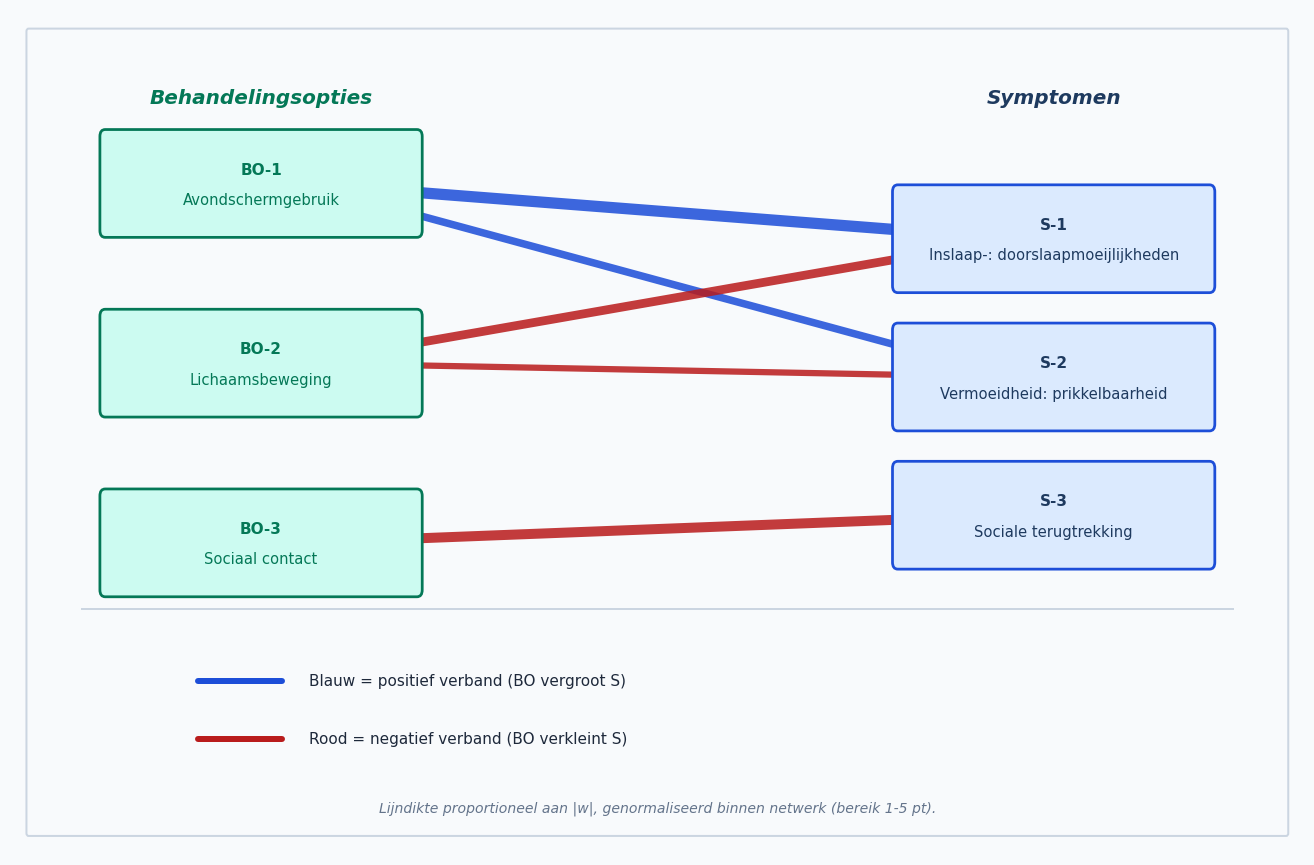
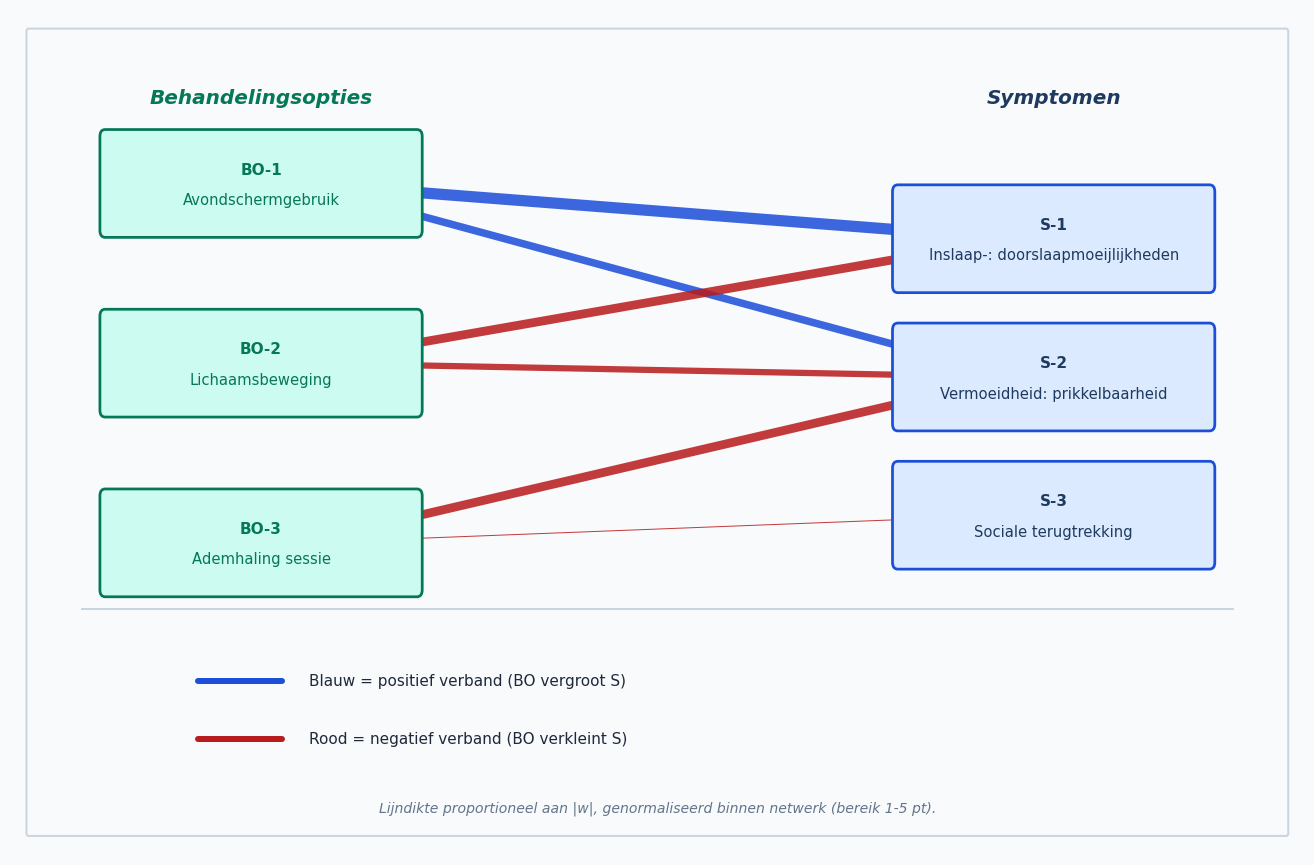
Survey + TikZ: doel-zin fix + BO-3 → Ademhaling sessie
- 'Het doel deze survey is om de klinische kwaliteit te kunnen evalueren'
  → 'Het doel van deze survey is om uiteindelijk de klinische kwaliteit
     te kunnen evalueren' (×20, alle HCPs)
- Deel 3 voorbeeld BO-3: Sociaal contact → Ademhaling sessie (good/frequent
  state, lage prioriteit) in survey HTML (×10) + alle 10 TikZ bronbestanden
- Netwerk: bo3→s2 (3.5pt red, ademhaling vermindert vermoeidheid) +
  bo3→s3 (0.4pt, barely matters); oud bo3→s3 4.0pt verwijderd
- example_d3.png geregenereerd

diff --git a/evaluation/qualtrics/01_HCPs_PRE/separate_HCPs/1_case_per_HCP/HCP_01/main.tex b/evaluation/qualtrics/01_HCPs_PRE/separate_HCPs/1_case_per_HCP/HCP_01/main.tex
@@ -637,8 +637,7 @@ tot en met 5 (laagste prioriteit).
 \begin{voorbeeldbox}{Deel 3: Behandeldoelprioritering}{Hoe leest u het netwerk en rangschikt u de behandelingsopties?}
 \small
 \textbf{Monitoring (voorbeeld):} Schermtijd voor slapengaan: 18/21 avonden actief
-(gem.\ 65 min). Lichaamsbeweging: 0,8 sessies/week. Sociaal contact op eigen initiatief:
-0,9/week.
+(gem.\ 65 min). Lichaamsbeweging: 0,8 sessies/week. Ademhaling sessies: gem.\ 2,4/dag (goed).
 
 \medskip
 \textbf{Tweedelig netwerk voor dit voorbeeld:}
@@ -647,7 +646,7 @@ tot en met 5 (laagste prioriteit).
 \begin{tikzpicture}[node distance=0pt]
   \node[smprnode] (bo1) at (0, 1.3)  {BO-1\\Avondschermgebruik};
   \node[smprnode] (bo2) at (0, 0.0)  {BO-2\\Lichaamsbeweging};
-  \node[smprnode] (bo3) at (0,-1.3)  {BO-3\\Sociaal contact};
+  \node[smprnode] (bo3) at (0,-1.3)  {BO-3\\Ademhaling sessie};
   \node[smcrnode] (s1) at (7.5, 0.9) {S-1\\Inslaap- \& doorslaapmoeijlijkheden};
   \node[smcrnode] (s2) at (7.5,-0.1) {S-2\\Vermoeidheid \& prikkelbaarheid};
   \node[smcrnode] (s3) at (7.5,-1.1) {S-3\\Sociale terugtrekking};
@@ -655,7 +654,8 @@ tot en met 5 (laagste prioriteit).
   \draw[line width=3.0pt, draw=PrimaryBlue!80, opacity=0.90] (bo1.east) -- (s2.west);
   \draw[line width=3.5pt, draw=StrongRed!85, opacity=0.90] (bo2.east) -- (s1.west);
   \draw[line width=2.5pt, draw=StrongRed!85, opacity=0.90] (bo2.east) -- (s2.west);
-  \draw[line width=4.0pt, draw=StrongRed!85, opacity=0.90] (bo3.east) -- (s3.west);
+  \draw[line width=3.5pt, draw=StrongRed!85, opacity=0.90] (bo3.east) -- (s2.west);
+  \draw[line width=0.4pt, draw=StrongRed!85, opacity=0.90] (bo3.east) -- (s3.west);
   \draw[line width=0.3pt, draw=black!25] (-0.2,-1.88) -- (10.1,-1.88);
   \draw[line width=2.0pt, draw=PrimaryBlue!80] (0.1,-2.18) -- (1.0,-2.18);
   \node[font=\fontsize{5.5}{7}\selectfont, anchor=west, text=black!70] at (1.15,-2.18) {\textbf{Blauw} = positief verband (BO \emph{vergroot} S)};
@@ -671,8 +671,8 @@ tot en met 5 (laagste prioriteit).
 monitoring toont 18/21 avonden hoge schermtijd $\rightarrow$ \textbf{prioriteit 1}.
 \item \textbf{BO-2 (Lichaamsbeweging)} -- beschermend effect op S-1 en S-2 (rode verbanden);
 frequentie extreem laag (0,8/week) $\rightarrow$ \textbf{prioriteit 2}.
-\item \textbf{BO-3 (Sociaal contact)} -- sterk negatief verband met S-3; eveneens laag
-(0,9/week) $\rightarrow$ \textbf{prioriteit 3}.
+\item \textbf{BO-3 (Ademhaling sessie)} -- beschermend effect op S-2 (rode lijn);
+frequentie hoog (gem.\ 2,4/dag, goed) $\rightarrow$ \textbf{prioriteit 3} (toestand reeds goed).
 \end{enumerate}
 \end{voorbeeldbox}
 

diff --git a/evaluation/qualtrics/01_HCPs_PRE/separate_HCPs/1_case_per_HCP/HCP_02/main.tex b/evaluation/qualtrics/01_HCPs_PRE/separate_HCPs/1_case_per_HCP/HCP_02/main.tex
@@ -637,8 +637,7 @@ tot en met 5 (laagste prioriteit).
 \begin{voorbeeldbox}{Deel 3: Behandeldoelprioritering}{Hoe leest u het netwerk en rangschikt u de behandelingsopties?}
 \small
 \textbf{Monitoring (voorbeeld):} Schermtijd voor slapengaan: 18/21 avonden actief
-(gem.\ 65 min). Lichaamsbeweging: 0,8 sessies/week. Sociaal contact op eigen initiatief:
-0,9/week.
+(gem.\ 65 min). Lichaamsbeweging: 0,8 sessies/week. Ademhaling sessies: gem.\ 2,4/dag (goed).
 
 \medskip
 \textbf{Tweedelig netwerk voor dit voorbeeld:}
@@ -647,7 +646,7 @@ tot en met 5 (laagste prioriteit).
 \begin{tikzpicture}[node distance=0pt]
   \node[smprnode] (bo1) at (0, 1.3)  {BO-1\\Avondschermgebruik};
   \node[smprnode] (bo2) at (0, 0.0)  {BO-2\\Lichaamsbeweging};
-  \node[smprnode] (bo3) at (0,-1.3)  {BO-3\\Sociaal contact};
+  \node[smprnode] (bo3) at (0,-1.3)  {BO-3\\Ademhaling sessie};
   \node[smcrnode] (s1) at (7.5, 0.9) {S-1\\Inslaap- \& doorslaapmoeijlijkheden};
   \node[smcrnode] (s2) at (7.5,-0.1) {S-2\\Vermoeidheid \& prikkelbaarheid};
   \node[smcrnode] (s3) at (7.5,-1.1) {S-3\\Sociale terugtrekking};
@@ -655,7 +654,8 @@ tot en met 5 (laagste prioriteit).
   \draw[line width=3.0pt, draw=PrimaryBlue!80, opacity=0.90] (bo1.east) -- (s2.west);
   \draw[line width=3.5pt, draw=StrongRed!85, opacity=0.90] (bo2.east) -- (s1.west);
   \draw[line width=2.5pt, draw=StrongRed!85, opacity=0.90] (bo2.east) -- (s2.west);
-  \draw[line width=4.0pt, draw=StrongRed!85, opacity=0.90] (bo3.east) -- (s3.west);
+  \draw[line width=3.5pt, draw=StrongRed!85, opacity=0.90] (bo3.east) -- (s2.west);
+  \draw[line width=0.4pt, draw=StrongRed!85, opacity=0.90] (bo3.east) -- (s3.west);
   \draw[line width=0.3pt, draw=black!25] (-0.2,-1.88) -- (10.1,-1.88);
   \draw[line width=2.0pt, draw=PrimaryBlue!80] (0.1,-2.18) -- (1.0,-2.18);
   \node[font=\fontsize{5.5}{7}\selectfont, anchor=west, text=black!70] at (1.15,-2.18) {\textbf{Blauw} = positief verband (BO \emph{vergroot} S)};
@@ -671,8 +671,8 @@ tot en met 5 (laagste prioriteit).
 monitoring toont 18/21 avonden hoge schermtijd $\rightarrow$ \textbf{prioriteit 1}.
 \item \textbf{BO-2 (Lichaamsbeweging)} -- beschermend effect op S-1 en S-2 (rode verbanden);
 frequentie extreem laag (0,8/week) $\rightarrow$ \textbf{prioriteit 2}.
-\item \textbf{BO-3 (Sociaal contact)} -- sterk negatief verband met S-3; eveneens laag
-(0,9/week) $\rightarrow$ \textbf{prioriteit 3}.
+\item \textbf{BO-3 (Ademhaling sessie)} -- beschermend effect op S-2 (rode lijn);
+frequentie hoog (gem.\ 2,4/dag, goed) $\rightarrow$ \textbf{prioriteit 3} (toestand reeds goed).
 \end{enumerate}
 \end{voorbeeldbox}
 

diff --git a/evaluation/qualtrics/01_HCPs_PRE/separate_HCPs/1_case_per_HCP/HCP_05/main.tex b/evaluation/qualtrics/01_HCPs_PRE/separate_HCPs/1_case_per_HCP/HCP_05/main.tex
@@ -637,8 +637,7 @@ tot en met 5 (laagste prioriteit).
 \begin{voorbeeldbox}{Deel 3: Behandeldoelprioritering}{Hoe leest u het netwerk en rangschikt u de behandelingsopties?}
 \small
 \textbf{Monitoring (voorbeeld):} Schermtijd voor slapengaan: 18/21 avonden actief
-(gem.\ 65 min). Lichaamsbeweging: 0,8 sessies/week. Sociaal contact op eigen initiatief:
-0,9/week.
+(gem.\ 65 min). Lichaamsbeweging: 0,8 sessies/week. Ademhaling sessies: gem.\ 2,4/dag (goed).
 
 \medskip
 \textbf{Tweedelig netwerk voor dit voorbeeld:}
@@ -647,7 +646,7 @@ tot en met 5 (laagste prioriteit).
 \begin{tikzpicture}[node distance=0pt]
   \node[smprnode] (bo1) at (0, 1.3)  {BO-1\\Avondschermgebruik};
   \node[smprnode] (bo2) at (0, 0.0)  {BO-2\\Lichaamsbeweging};
-  \node[smprnode] (bo3) at (0,-1.3)  {BO-3\\Sociaal contact};
+  \node[smprnode] (bo3) at (0,-1.3)  {BO-3\\Ademhaling sessie};
   \node[smcrnode] (s1) at (7.5, 0.9) {S-1\\Inslaap- \& doorslaapmoeilijkheden};
   \node[smcrnode] (s2) at (7.5,-0.1) {S-2\\Vermoeidheid \& prikkelbaarheid};
   \node[smcrnode] (s3) at (7.5,-1.1) {S-3\\Sociale terugtrekking};
@@ -655,7 +654,8 @@ tot en met 5 (laagste prioriteit).
   \draw[line width=3.0pt, draw=PrimaryBlue!80, opacity=0.90] (bo1.east) -- (s2.west);
   \draw[line width=3.5pt, draw=StrongRed!85, opacity=0.90] (bo2.east) -- (s1.west);
   \draw[line width=2.5pt, draw=StrongRed!85, opacity=0.90] (bo2.east) -- (s2.west);
-  \draw[line width=4.0pt, draw=StrongRed!85, opacity=0.90] (bo3.east) -- (s3.west);
+  \draw[line width=3.5pt, draw=StrongRed!85, opacity=0.90] (bo3.east) -- (s2.west);
+  \draw[line width=0.4pt, draw=StrongRed!85, opacity=0.90] (bo3.east) -- (s3.west);
   \draw[line width=0.3pt, draw=black!25] (-0.2,-1.88) -- (10.1,-1.88);
   \draw[line width=2.0pt, draw=PrimaryBlue!80] (0.1,-2.18) -- (1.0,-2.18);
   \node[font=\fontsize{5.5}{7}\selectfont, anchor=west, text=black!70] at (1.15,-2.18) {\textbf{Blauw} = positief verband (BO \emph{vergroot} S)};
@@ -671,8 +671,8 @@ tot en met 5 (laagste prioriteit).
 monitoring toont 18/21 avonden hoge schermtijd $\rightarrow$ \textbf{prioriteit 1}.
 \item \textbf{BO-2 (Lichaamsbeweging)} -- beschermend effect op S-1 en S-2 (rode verbanden);
 frequentie extreem laag (0,8/week) $\rightarrow$ \textbf{prioriteit 2}.
-\item \textbf{BO-3 (Sociaal contact)} -- sterk negatief verband met S-3; eveneens laag
-(0,9/week) $\rightarrow$ \textbf{prioriteit 3}.
+\item \textbf{BO-3 (Ademhaling sessie)} -- beschermend effect op S-2 (rode lijn);
+frequentie hoog (gem.\ 2,4/dag, goed) $\rightarrow$ \textbf{prioriteit 3} (toestand reeds goed).
 \end{enumerate}
 \end{voorbeeldbox}
 

diff --git a/evaluation/qualtrics/01_HCPs_PRE/separate_HCPs/1_case_per_HCP/HCP_06/main.tex b/evaluation/qualtrics/01_HCPs_PRE/separate_HCPs/1_case_per_HCP/HCP_06/main.tex
@@ -637,8 +637,7 @@ tot en met 5 (laagste prioriteit).
 \begin{voorbeeldbox}{Deel 3: Behandeldoelprioritering}{Hoe leest u het netwerk en rangschikt u de behandelingsopties?}
 \small
 \textbf{Monitoring (voorbeeld):} Schermtijd voor slapengaan: 18/21 avonden actief
-(gem.\ 65 min). Lichaamsbeweging: 0,8 sessies/week. Sociaal contact op eigen initiatief:
-0,9/week.
+(gem.\ 65 min). Lichaamsbeweging: 0,8 sessies/week. Ademhaling sessies: gem.\ 2,4/dag (goed).
 
 \medskip
 \textbf{Tweedelig netwerk voor dit voorbeeld:}
@@ -647,7 +646,7 @@ tot en met 5 (laagste prioriteit).
 \begin{tikzpicture}[node distance=0pt]
   \node[smprnode] (bo1) at (0, 1.3)  {BO-1\\Avondschermgebruik};
   \node[smprnode] (bo2) at (0, 0.0)  {BO-2\\Lichaamsbeweging};
-  \node[smprnode] (bo3) at (0,-1.3)  {BO-3\\Sociaal contact};
+  \node[smprnode] (bo3) at (0,-1.3)  {BO-3\\Ademhaling sessie};
   \node[smcrnode] (s1) at (7.5, 0.9) {S-1\\Inslaap- \& doorslaapmoeilijkheden};
   \node[smcrnode] (s2) at (7.5,-0.1) {S-2\\Vermoeidheid \& prikkelbaarheid};
   \node[smcrnode] (s3) at (7.5,-1.1) {S-3\\Sociale terugtrekking};
@@ -655,7 +654,8 @@ tot en met 5 (laagste prioriteit).
   \draw[line width=3.0pt, draw=PrimaryBlue!80, opacity=0.90] (bo1.east) -- (s2.west);
   \draw[line width=3.5pt, draw=StrongRed!85, opacity=0.90] (bo2.east) -- (s1.west);
   \draw[line width=2.5pt, draw=StrongRed!85, opacity=0.90] (bo2.east) -- (s2.west);
-  \draw[line width=4.0pt, draw=StrongRed!85, opacity=0.90] (bo3.east) -- (s3.west);
+  \draw[line width=3.5pt, draw=StrongRed!85, opacity=0.90] (bo3.east) -- (s2.west);
+  \draw[line width=0.4pt, draw=StrongRed!85, opacity=0.90] (bo3.east) -- (s3.west);
   \draw[line width=0.3pt, draw=black!25] (-0.2,-1.88) -- (10.1,-1.88);
   \draw[line width=2.0pt, draw=PrimaryBlue!80] (0.1,-2.18) -- (1.0,-2.18);
   \node[font=\fontsize{5.5}{7}\selectfont, anchor=west, text=black!70] at (1.15,-2.18) {\textbf{Blauw} = positief verband (BO \emph{vergroot} S)};
@@ -671,8 +671,8 @@ tot en met 5 (laagste prioriteit).
 monitoring toont 18/21 avonden hoge schermtijd $\rightarrow$ \textbf{prioriteit 1}.
 \item \textbf{BO-2 (Lichaamsbeweging)} -- beschermend effect op S-1 en S-2 (rode verbanden);
 frequentie extreem laag (0,8/week) $\rightarrow$ \textbf{prioriteit 2}.
-\item \textbf{BO-3 (Sociaal contact)} -- sterk negatief verband met S-3; eveneens laag
-(0,9/week) $\rightarrow$ \textbf{prioriteit 3}.
+\item \textbf{BO-3 (Ademhaling sessie)} -- beschermend effect op S-2 (rode lijn);
+frequentie hoog (gem.\ 2,4/dag, goed) $\rightarrow$ \textbf{prioriteit 3} (toestand reeds goed).
 \end{enumerate}
 \end{voorbeeldbox}
 

diff --git a/evaluation/qualtrics/01_HCPs_PRE/separate_HCPs/1_case_per_HCP/HCP_07/main.tex b/evaluation/qualtrics/01_HCPs_PRE/separate_HCPs/1_case_per_HCP/HCP_07/main.tex
@@ -637,8 +637,7 @@ tot en met 5 (laagste prioriteit).
 \begin{voorbeeldbox}{Deel 3: Behandeldoelprioritering}{Hoe leest u het netwerk en rangschikt u de behandelingsopties?}
 \small
 \textbf{Monitoring (voorbeeld):} Schermtijd voor slapengaan: 18/21 avonden actief
-(gem.\ 65 min). Lichaamsbeweging: 0,8 sessies/week. Sociaal contact op eigen initiatief:
-0,9/week.
+(gem.\ 65 min). Lichaamsbeweging: 0,8 sessies/week. Ademhaling sessies: gem.\ 2,4/dag (goed).
 
 \medskip
 \textbf{Tweedelig netwerk voor dit voorbeeld:}
@@ -647,7 +646,7 @@ tot en met 5 (laagste prioriteit).
 \begin{tikzpicture}[node distance=0pt]
   \node[smprnode] (bo1) at (0, 1.3)  {BO-1\\Avondschermgebruik};
   \node[smprnode] (bo2) at (0, 0.0)  {BO-2\\Lichaamsbeweging};
-  \node[smprnode] (bo3) at (0,-1.3)  {BO-3\\Sociaal contact};
+  \node[smprnode] (bo3) at (0,-1.3)  {BO-3\\Ademhaling sessie};
   \node[smcrnode] (s1) at (7.5, 0.9) {S-1\\Inslaap- \& doorslaapmoeilijkheden};
   \node[smcrnode] (s2) at (7.5,-0.1) {S-2\\Vermoeidheid \& prikkelbaarheid};
   \node[smcrnode] (s3) at (7.5,-1.1) {S-3\\Sociale terugtrekking};
@@ -655,7 +654,8 @@ tot en met 5 (laagste prioriteit).
   \draw[line width=3.0pt, draw=PrimaryBlue!80, opacity=0.90] (bo1.east) -- (s2.west);
   \draw[line width=3.5pt, draw=StrongRed!85, opacity=0.90] (bo2.east) -- (s1.west);
   \draw[line width=2.5pt, draw=StrongRed!85, opacity=0.90] (bo2.east) -- (s2.west);
-  \draw[line width=4.0pt, draw=StrongRed!85, opacity=0.90] (bo3.east) -- (s3.west);
+  \draw[line width=3.5pt, draw=StrongRed!85, opacity=0.90] (bo3.east) -- (s2.west);
+  \draw[line width=0.4pt, draw=StrongRed!85, opacity=0.90] (bo3.east) -- (s3.west);
   \draw[line width=0.3pt, draw=black!25] (-0.2,-1.88) -- (10.1,-1.88);
   \draw[line width=2.0pt, draw=PrimaryBlue!80] (0.1,-2.18) -- (1.0,-2.18);
   \node[font=\fontsize{5.5}{7}\selectfont, anchor=west, text=black!70] at (1.15,-2.18) {\textbf{Blauw} = positief verband (BO \emph{vergroot} S)};
@@ -671,8 +671,8 @@ tot en met 5 (laagste prioriteit).
 monitoring toont 18/21 avonden hoge schermtijd $\rightarrow$ \textbf{prioriteit 1}.
 \item \textbf{BO-2 (Lichaamsbeweging)} -- beschermend effect op S-1 en S-2 (rode verbanden);
 frequentie extreem laag (0,8/week) $\rightarrow$ \textbf{prioriteit 2}.
-\item \textbf{BO-3 (Sociaal contact)} -- sterk negatief verband met S-3; eveneens laag
-(0,9/week) $\rightarrow$ \textbf{prioriteit 3}.
+\item \textbf{BO-3 (Ademhaling sessie)} -- beschermend effect op S-2 (rode lijn);
+frequentie hoog (gem.\ 2,4/dag, goed) $\rightarrow$ \textbf{prioriteit 3} (toestand reeds goed).
 \end{enumerate}
 \end{voorbeeldbox}
 

diff --git a/evaluation/qualtrics/01_HCPs_PRE/separate_HCPs/1_case_per_HCP/HCP_08/main.tex b/evaluation/qualtrics/01_HCPs_PRE/separate_HCPs/1_case_per_HCP/HCP_08/main.tex
@@ -637,8 +637,7 @@ tot en met 5 (laagste prioriteit).
 \begin{voorbeeldbox}{Deel 3: Behandeldoelprioritering}{Hoe leest u het netwerk en rangschikt u de behandelingsopties?}
 \small
 \textbf{Monitoring (voorbeeld):} Schermtijd voor slapengaan: 18/21 avonden actief
-(gem.\ 65 min). Lichaamsbeweging: 0,8 sessies/week. Sociaal contact op eigen initiatief:
-0,9/week.
+(gem.\ 65 min). Lichaamsbeweging: 0,8 sessies/week. Ademhaling sessies: gem.\ 2,4/dag (goed).
 
 \medskip
 \textbf{Tweedelig netwerk voor dit voorbeeld:}
@@ -647,7 +646,7 @@ tot en met 5 (laagste prioriteit).
 \begin{tikzpicture}[node distance=0pt]
   \node[smprnode] (bo1) at (0, 1.3)  {BO-1\\Avondschermgebruik};
   \node[smprnode] (bo2) at (0, 0.0)  {BO-2\\Lichaamsbeweging};
-  \node[smprnode] (bo3) at (0,-1.3)  {BO-3\\Sociaal contact};
+  \node[smprnode] (bo3) at (0,-1.3)  {BO-3\\Ademhaling sessie};
   \node[smcrnode] (s1) at (7.5, 0.9) {S-1\\Inslaap- \& doorslaapmoeilijkheden};
   \node[smcrnode] (s2) at (7.5,-0.1) {S-2\\Vermoeidheid \& prikkelbaarheid};
   \node[smcrnode] (s3) at (7.5,-1.1) {S-3\\Sociale terugtrekking};
@@ -655,7 +654,8 @@ tot en met 5 (laagste prioriteit).
   \draw[line width=3.0pt, draw=PrimaryBlue!80, opacity=0.90] (bo1.east) -- (s2.west);
   \draw[line width=3.5pt, draw=StrongRed!85, opacity=0.90] (bo2.east) -- (s1.west);
   \draw[line width=2.5pt, draw=StrongRed!85, opacity=0.90] (bo2.east) -- (s2.west);
-  \draw[line width=4.0pt, draw=StrongRed!85, opacity=0.90] (bo3.east) -- (s3.west);
+  \draw[line width=3.5pt, draw=StrongRed!85, opacity=0.90] (bo3.east) -- (s2.west);
+  \draw[line width=0.4pt, draw=StrongRed!85, opacity=0.90] (bo3.east) -- (s3.west);
   \draw[line width=0.3pt, draw=black!25] (-0.2,-1.88) -- (10.1,-1.88);
   \draw[line width=2.0pt, draw=PrimaryBlue!80] (0.1,-2.18) -- (1.0,-2.18);
   \node[font=\fontsize{5.5}{7}\selectfont, anchor=west, text=black!70] at (1.15,-2.18) {\textbf{Blauw} = positief verband (BO \emph{vergroot} S)};
@@ -671,8 +671,8 @@ tot en met 5 (laagste prioriteit).
 monitoring toont 18/21 avonden hoge schermtijd $\rightarrow$ \textbf{prioriteit 1}.
 \item \textbf{BO-2 (Lichaamsbeweging)} -- beschermend effect op S-1 en S-2 (rode verbanden);
 frequentie extreem laag (0,8/week) $\rightarrow$ \textbf{prioriteit 2}.
-\item \textbf{BO-3 (Sociaal contact)} -- sterk negatief verband met S-3; eveneens laag
-(0,9/week) $\rightarrow$ \textbf{prioriteit 3}.
+\item \textbf{BO-3 (Ademhaling sessie)} -- beschermend effect op S-2 (rode lijn);
+frequentie hoog (gem.\ 2,4/dag, goed) $\rightarrow$ \textbf{prioriteit 3} (toestand reeds goed).
 \end{enumerate}
 \end{voorbeeldbox}
 

diff --git a/evaluation/qualtrics/01_HCPs_PRE/separate_HCPs/1_case_per_HCP/HCP_09/main.tex b/evaluation/qualtrics/01_HCPs_PRE/separate_HCPs/1_case_per_HCP/HCP_09/main.tex
@@ -637,8 +637,7 @@ tot en met 5 (laagste prioriteit).
 \begin{voorbeeldbox}{Deel 3: Behandeldoelprioritering}{Hoe leest u het netwerk en rangschikt u de behandelingsopties?}
 \small
 \textbf{Monitoring (voorbeeld):} Schermtijd voor slapengaan: 18/21 avonden actief
-(gem.\ 65 min). Lichaamsbeweging: 0,8 sessies/week. Sociaal contact op eigen initiatief:
-0,9/week.
+(gem.\ 65 min). Lichaamsbeweging: 0,8 sessies/week. Ademhaling sessies: gem.\ 2,4/dag (goed).
 
 \medskip
 \textbf{Tweedelig netwerk voor dit voorbeeld:}
@@ -647,7 +646,7 @@ tot en met 5 (laagste prioriteit).
 \begin{tikzpicture}[node distance=0pt]
   \node[smprnode] (bo1) at (0, 1.3)  {BO-1\\Avondschermgebruik};
   \node[smprnode] (bo2) at (0, 0.0)  {BO-2\\Lichaamsbeweging};
-  \node[smprnode] (bo3) at (0,-1.3)  {BO-3\\Sociaal contact};
+  \node[smprnode] (bo3) at (0,-1.3)  {BO-3\\Ademhaling sessie};
   \node[smcrnode] (s1) at (7.5, 0.9) {S-1\\Inslaap- \& doorslaapmoeilijkheden};
   \node[smcrnode] (s2) at (7.5,-0.1) {S-2\\Vermoeidheid \& prikkelbaarheid};
   \node[smcrnode] (s3) at (7.5,-1.1) {S-3\\Sociale terugtrekking};
@@ -655,7 +654,8 @@ tot en met 5 (laagste prioriteit).
   \draw[line width=3.0pt, draw=PrimaryBlue!80, opacity=0.90] (bo1.east) -- (s2.west);
   \draw[line width=3.5pt, draw=StrongRed!85, opacity=0.90] (bo2.east) -- (s1.west);
   \draw[line width=2.5pt, draw=StrongRed!85, opacity=0.90] (bo2.east) -- (s2.west);
-  \draw[line width=4.0pt, draw=StrongRed!85, opacity=0.90] (bo3.east) -- (s3.west);
+  \draw[line width=3.5pt, draw=StrongRed!85, opacity=0.90] (bo3.east) -- (s2.west);
+  \draw[line width=0.4pt, draw=StrongRed!85, opacity=0.90] (bo3.east) -- (s3.west);
   \draw[line width=0.3pt, draw=black!25] (-0.2,-1.88) -- (10.1,-1.88);
   \draw[line width=2.0pt, draw=PrimaryBlue!80] (0.1,-2.18) -- (1.0,-2.18);
   \node[font=\fontsize{5.5}{7}\selectfont, anchor=west, text=black!70] at (1.15,-2.18) {\textbf{Blauw} = positief verband (BO \emph{vergroot} S)};
@@ -671,8 +671,8 @@ tot en met 5 (laagste prioriteit).
 monitoring toont 18/21 avonden hoge schermtijd $\rightarrow$ \textbf{prioriteit 1}.
 \item \textbf{BO-2 (Lichaamsbeweging)} -- beschermend effect op S-1 en S-2 (rode verbanden);
 frequentie extreem laag (0,8/week) $\rightarrow$ \textbf{prioriteit 2}.
-\item \textbf{BO-3 (Sociaal contact)} -- sterk negatief verband met S-3; eveneens laag
-(0,9/week) $\rightarrow$ \textbf{prioriteit 3}.
+\item \textbf{BO-3 (Ademhaling sessie)} -- beschermend effect op S-2 (rode lijn);
+frequentie hoog (gem.\ 2,4/dag, goed) $\rightarrow$ \textbf{prioriteit 3} (toestand reeds goed).
 \end{enumerate}
 \end{voorbeeldbox}
 

diff --git a/evaluation/qualtrics/01_HCPs_PRE/separate_HCPs/1_case_per_HCP/HCP_10/main.tex b/evaluation/qualtrics/01_HCPs_PRE/separate_HCPs/1_case_per_HCP/HCP_10/main.tex
@@ -637,8 +637,7 @@ tot en met 5 (laagste prioriteit).
 \begin{voorbeeldbox}{Deel 3: Behandeldoelprioritering}{Hoe leest u het netwerk en rangschikt u de behandelingsopties?}
 \small
 \textbf{Monitoring (voorbeeld):} Schermtijd voor slapengaan: 18/21 avonden actief
-(gem.\ 65 min). Lichaamsbeweging: 0,8 sessies/week. Sociaal contact op eigen initiatief:
-0,9/week.
+(gem.\ 65 min). Lichaamsbeweging: 0,8 sessies/week. Ademhaling sessies: gem.\ 2,4/dag (goed).
 
 \medskip
 \textbf{Tweedelig netwerk voor dit voorbeeld:}
@@ -647,7 +646,7 @@ tot en met 5 (laagste prioriteit).
 \begin{tikzpicture}[node distance=0pt]
   \node[smprnode] (bo1) at (0, 1.3)  {BO-1\\Avondschermgebruik};
   \node[smprnode] (bo2) at (0, 0.0)  {BO-2\\Lichaamsbeweging};
-  \node[smprnode] (bo3) at (0,-1.3)  {BO-3\\Sociaal contact};
+  \node[smprnode] (bo3) at (0,-1.3)  {BO-3\\Ademhaling sessie};
   \node[smcrnode] (s1) at (7.5, 0.9) {S-1\\Inslaap- \& doorslaapmoeilijkheden};
   \node[smcrnode] (s2) at (7.5,-0.1) {S-2\\Vermoeidheid \& prikkelbaarheid};
   \node[smcrnode] (s3) at (7.5,-1.1) {S-3\\Sociale terugtrekking};
@@ -655,7 +654,8 @@ tot en met 5 (laagste prioriteit).
   \draw[line width=3.0pt, draw=PrimaryBlue!80, opacity=0.90] (bo1.east) -- (s2.west);
   \draw[line width=3.5pt, draw=StrongRed!85, opacity=0.90] (bo2.east) -- (s1.west);
   \draw[line width=2.5pt, draw=StrongRed!85, opacity=0.90] (bo2.east) -- (s2.west);
-  \draw[line width=4.0pt, draw=StrongRed!85, opacity=0.90] (bo3.east) -- (s3.west);
+  \draw[line width=3.5pt, draw=StrongRed!85, opacity=0.90] (bo3.east) -- (s2.west);
+  \draw[line width=0.4pt, draw=StrongRed!85, opacity=0.90] (bo3.east) -- (s3.west);
   \draw[line width=0.3pt, draw=black!25] (-0.2,-1.88) -- (10.1,-1.88);
   \draw[line width=2.0pt, draw=PrimaryBlue!80] (0.1,-2.18) -- (1.0,-2.18);
   \node[font=\fontsize{5.5}{7}\selectfont, anchor=west, text=black!70] at (1.15,-2.18) {\textbf{Blauw} = positief verband (BO \emph{vergroot} S)};
@@ -671,8 +671,8 @@ tot en met 5 (laagste prioriteit).
 monitoring toont 18/21 avonden hoge schermtijd $\rightarrow$ \textbf{prioriteit 1}.
 \item \textbf{BO-2 (Lichaamsbeweging)} -- beschermend effect op S-1 en S-2 (rode verbanden);
 frequentie extreem laag (0,8/week) $\rightarrow$ \textbf{prioriteit 2}.
-\item \textbf{BO-3 (Sociaal contact)} -- sterk negatief verband met S-3; eveneens laag
-(0,9/week) $\rightarrow$ \textbf{prioriteit 3}.
+\item \textbf{BO-3 (Ademhaling sessie)} -- beschermend effect op S-2 (rode lijn);
+frequentie hoog (gem.\ 2,4/dag, goed) $\rightarrow$ \textbf{prioriteit 3} (toestand reeds goed).
 \end{enumerate}
 \end{voorbeeldbox}
 

diff --git a/evaluation/qualtrics/01_HCPs_PRE/separate_HCPs/1_case_per_HCP/HCP_03/main.tex b/evaluation/qualtrics/01_HCPs_PRE/separate_HCPs/1_case_per_HCP/HCP_03/main.tex
@@ -633,8 +633,7 @@ sterkste vermindering van de symptomen oplevert. Prioriteer op basis van monitor
 \begin{voorbeeldbox}{Deel 3: Behandeldoelprioritering}{Hoe leest u het netwerk en rangschikt u de behandelingsopties?}
 \small
 \textbf{Monitoring (voorbeeld):} Schermtijd voor slapengaan: 18/21 avonden actief
-(gem.\ 65 min). Lichaamsbeweging: 0,8 sessies/week. Sociaal contact op eigen initiatief:
-0,9/week.
+(gem.\ 65 min). Lichaamsbeweging: 0,8 sessies/week. Ademhaling sessies: gem.\ 2,4/dag (goed).
 
 \medskip
 \textbf{Tweedelig netwerk voor dit voorbeeld:}
@@ -643,7 +642,7 @@ sterkste vermindering van de symptomen oplevert. Prioriteer op basis van monitor
 \begin{tikzpicture}[node distance=0pt]
   \node[smprnode] (bo1) at (0, 1.3)  {BO-1\\Avondschermgebruik};
   \node[smprnode] (bo2) at (0, 0.0)  {BO-2\\Lichaamsbeweging};
-  \node[smprnode] (bo3) at (0,-1.3)  {BO-3\\Sociaal contact};
+  \node[smprnode] (bo3) at (0,-1.3)  {BO-3\\Ademhaling sessie};
   \node[smcrnode] (s1) at (7.5, 0.9) {S-1\\Inslaap- \& doorslaapmoeilijkheden};
   \node[smcrnode] (s2) at (7.5,-0.1) {S-2\\Vermoeidheid \& prikkelbaarheid};
   \node[smcrnode] (s3) at (7.5,-1.1) {S-3\\Sociale terugtrekking};
@@ -651,7 +650,8 @@ sterkste vermindering van de symptomen oplevert. Prioriteer op basis van monitor
   \draw[line width=3.0pt, draw=PrimaryBlue!80, opacity=0.90] (bo1.east) -- (s2.west);
   \draw[line width=3.5pt, draw=StrongRed!85, opacity=0.90] (bo2.east) -- (s1.west);
   \draw[line width=2.5pt, draw=StrongRed!85, opacity=0.90] (bo2.east) -- (s2.west);
-  \draw[line width=4.0pt, draw=StrongRed!85, opacity=0.90] (bo3.east) -- (s3.west);
+  \draw[line width=3.5pt, draw=StrongRed!85, opacity=0.90] (bo3.east) -- (s2.west);
+  \draw[line width=0.4pt, draw=StrongRed!85, opacity=0.90] (bo3.east) -- (s3.west);
   \draw[line width=0.3pt, draw=black!25] (-0.2,-1.88) -- (10.1,-1.88);
   \draw[line width=2.0pt, draw=PrimaryBlue!80] (0.1,-2.18) -- (1.0,-2.18);
   \node[font=\fontsize{5.5}{7}\selectfont, anchor=west, text=black!70] at (1.15,-2.18) {\textbf{Blauw} = positief verband (BO \emph{vergroot} S)};
@@ -665,7 +665,7 @@ sterkste vermindering van de symptomen oplevert. Prioriteer op basis van monitor
 \begin{enumerate}[topsep=2pt,itemsep=1pt,label=\arabic*.]
 \item \textbf{BO-1 (Avondschermgebruik)} -- raakt S-1 en S-2; monitoring toont 18/21 avonden hoog gebruik $\rightarrow$ \textbf{prioriteit 1}.
 \item \textbf{BO-2 (Lichaamsbeweging)} -- beschermend voor S-1 en S-2; frequentie extreem laag $\rightarrow$ \textbf{prioriteit 2}.
-\item \textbf{BO-3 (Sociaal contact)} -- sterk negatief verband met S-3; laag (0,9/week) $\rightarrow$ \textbf{prioriteit 3}.
+\item \textbf{BO-3 (Ademhaling sessie)} -- beschermend effect op S-2 (rode lijn); frequentie hoog (gem.\ 2,4/dag, goed) $\rightarrow$ \textbf{prioriteit 3} (toestand reeds goed).
 \end{enumerate}
 \end{voorbeeldbox}
 

diff --git a/evaluation/qualtrics/01_HCPs_PRE/separate_HCPs/1_case_per_HCP/HCP_04/main.tex b/evaluation/qualtrics/01_HCPs_PRE/separate_HCPs/1_case_per_HCP/HCP_04/main.tex
@@ -633,8 +633,7 @@ sterkste vermindering van de symptomen oplevert. Prioriteer op basis van monitor
 \begin{voorbeeldbox}{Deel 3: Behandeldoelprioritering}{Hoe leest u het netwerk en rangschikt u de behandelingsopties?}
 \small
 \textbf{Monitoring (voorbeeld):} Schermtijd voor slapengaan: 18/21 avonden actief
-(gem.\ 65 min). Lichaamsbeweging: 0,8 sessies/week. Sociaal contact op eigen initiatief:
-0,9/week.
+(gem.\ 65 min). Lichaamsbeweging: 0,8 sessies/week. Ademhaling sessies: gem.\ 2,4/dag (goed).
 
 \medskip
 \textbf{Tweedelig netwerk voor dit voorbeeld:}
@@ -643,7 +642,7 @@ sterkste vermindering van de symptomen oplevert. Prioriteer op basis van monitor
 \begin{tikzpicture}[node distance=0pt]
   \node[smprnode] (bo1) at (0, 1.3)  {BO-1\\Avondschermgebruik};
   \node[smprnode] (bo2) at (0, 0.0)  {BO-2\\Lichaamsbeweging};
-  \node[smprnode] (bo3) at (0,-1.3)  {BO-3\\Sociaal contact};
+  \node[smprnode] (bo3) at (0,-1.3)  {BO-3\\Ademhaling sessie};
   \node[smcrnode] (s1) at (7.5, 0.9) {S-1\\Inslaap- \& doorslaapmoeilijkheden};
   \node[smcrnode] (s2) at (7.5,-0.1) {S-2\\Vermoeidheid \& prikkelbaarheid};
   \node[smcrnode] (s3) at (7.5,-1.1) {S-3\\Sociale terugtrekking};
@@ -651,7 +650,8 @@ sterkste vermindering van de symptomen oplevert. Prioriteer op basis van monitor
   \draw[line width=3.0pt, draw=PrimaryBlue!80, opacity=0.90] (bo1.east) -- (s2.west);
   \draw[line width=3.5pt, draw=StrongRed!85, opacity=0.90] (bo2.east) -- (s1.west);
   \draw[line width=2.5pt, draw=StrongRed!85, opacity=0.90] (bo2.east) -- (s2.west);
-  \draw[line width=4.0pt, draw=StrongRed!85, opacity=0.90] (bo3.east) -- (s3.west);
+  \draw[line width=3.5pt, draw=StrongRed!85, opacity=0.90] (bo3.east) -- (s2.west);
+  \draw[line width=0.4pt, draw=StrongRed!85, opacity=0.90] (bo3.east) -- (s3.west);
   \draw[line width=0.3pt, draw=black!25] (-0.2,-1.88) -- (10.1,-1.88);
   \draw[line width=2.0pt, draw=PrimaryBlue!80] (0.1,-2.18) -- (1.0,-2.18);
   \node[font=\fontsize{5.5}{7}\selectfont, anchor=west, text=black!70] at (1.15,-2.18) {\textbf{Blauw} = positief verband (BO \emph{vergroot} S)};
@@ -665,7 +665,7 @@ sterkste vermindering van de symptomen oplevert. Prioriteer op basis van monitor
 \begin{enumerate}[topsep=2pt,itemsep=1pt,label=\arabic*.]
 \item \textbf{BO-1 (Avondschermgebruik)} -- raakt S-1 en S-2; monitoring toont 18/21 avonden hoog gebruik $\rightarrow$ \textbf{prioriteit 1}.
 \item \textbf{BO-2 (Lichaamsbeweging)} -- beschermend voor S-1 en S-2; frequentie extreem laag $\rightarrow$ \textbf{prioriteit 2}.
-\item \textbf{BO-3 (Sociaal contact)} -- sterk negatief verband met S-3; laag (0,9/week) $\rightarrow$ \textbf{prioriteit 3}.
+\item \textbf{BO-3 (Ademhaling sessie)} -- beschermend effect op S-2 (rode lijn); frequentie hoog (gem.\ 2,4/dag, goed) $\rightarrow$ \textbf{prioriteit 3} (toestand reeds goed).
 \end{enumerate}
 \end{voorbeeldbox}
 